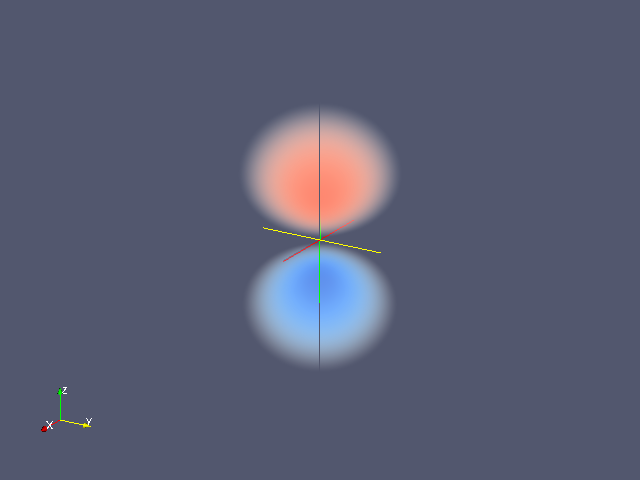
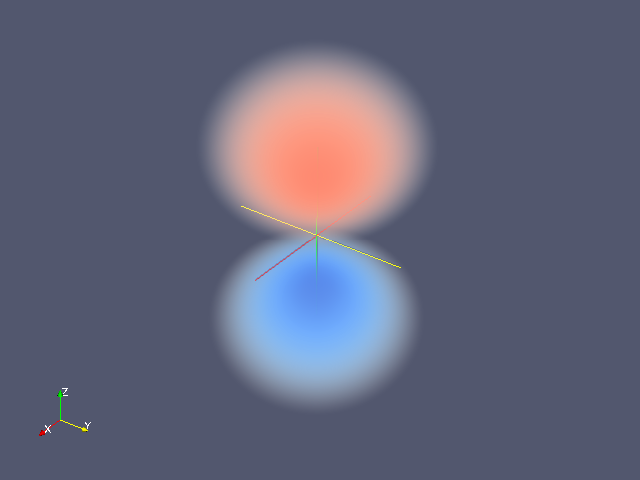
corrects pictures

Changed region(s): [[0.3125, 0.0938, 0.6875, 0.8438], [0.0625, 0.875, 0.1562, 0.9062]]

diff --git a/wavefunction/README.md b/wavefunction/README.md
@@ -16,9 +16,15 @@ $ ruby wavefunction.rb
 3. "Rescale to Data Range" in Display at Object Inspector
 4. Open Color Scale Editor via "Edit Color Map". Here is an sample of color map for 3dzx.vtk
 
-![Image1](colormap.png)
+![ColorMap](colormap.png)
 
 ## Samples of Visualization
-![Image1](2pz.png)
-![Image2](3dz2.png)
-![Image3](3dzx.png)
+
+"Save Screenshot" in File menu gives you the following pictures.
+
+2pz
+![2pz](2pz.png)
+3dz2
+![3dz2](3dz2.png)
+3dzx
+![3dzx](3dzx.png)
